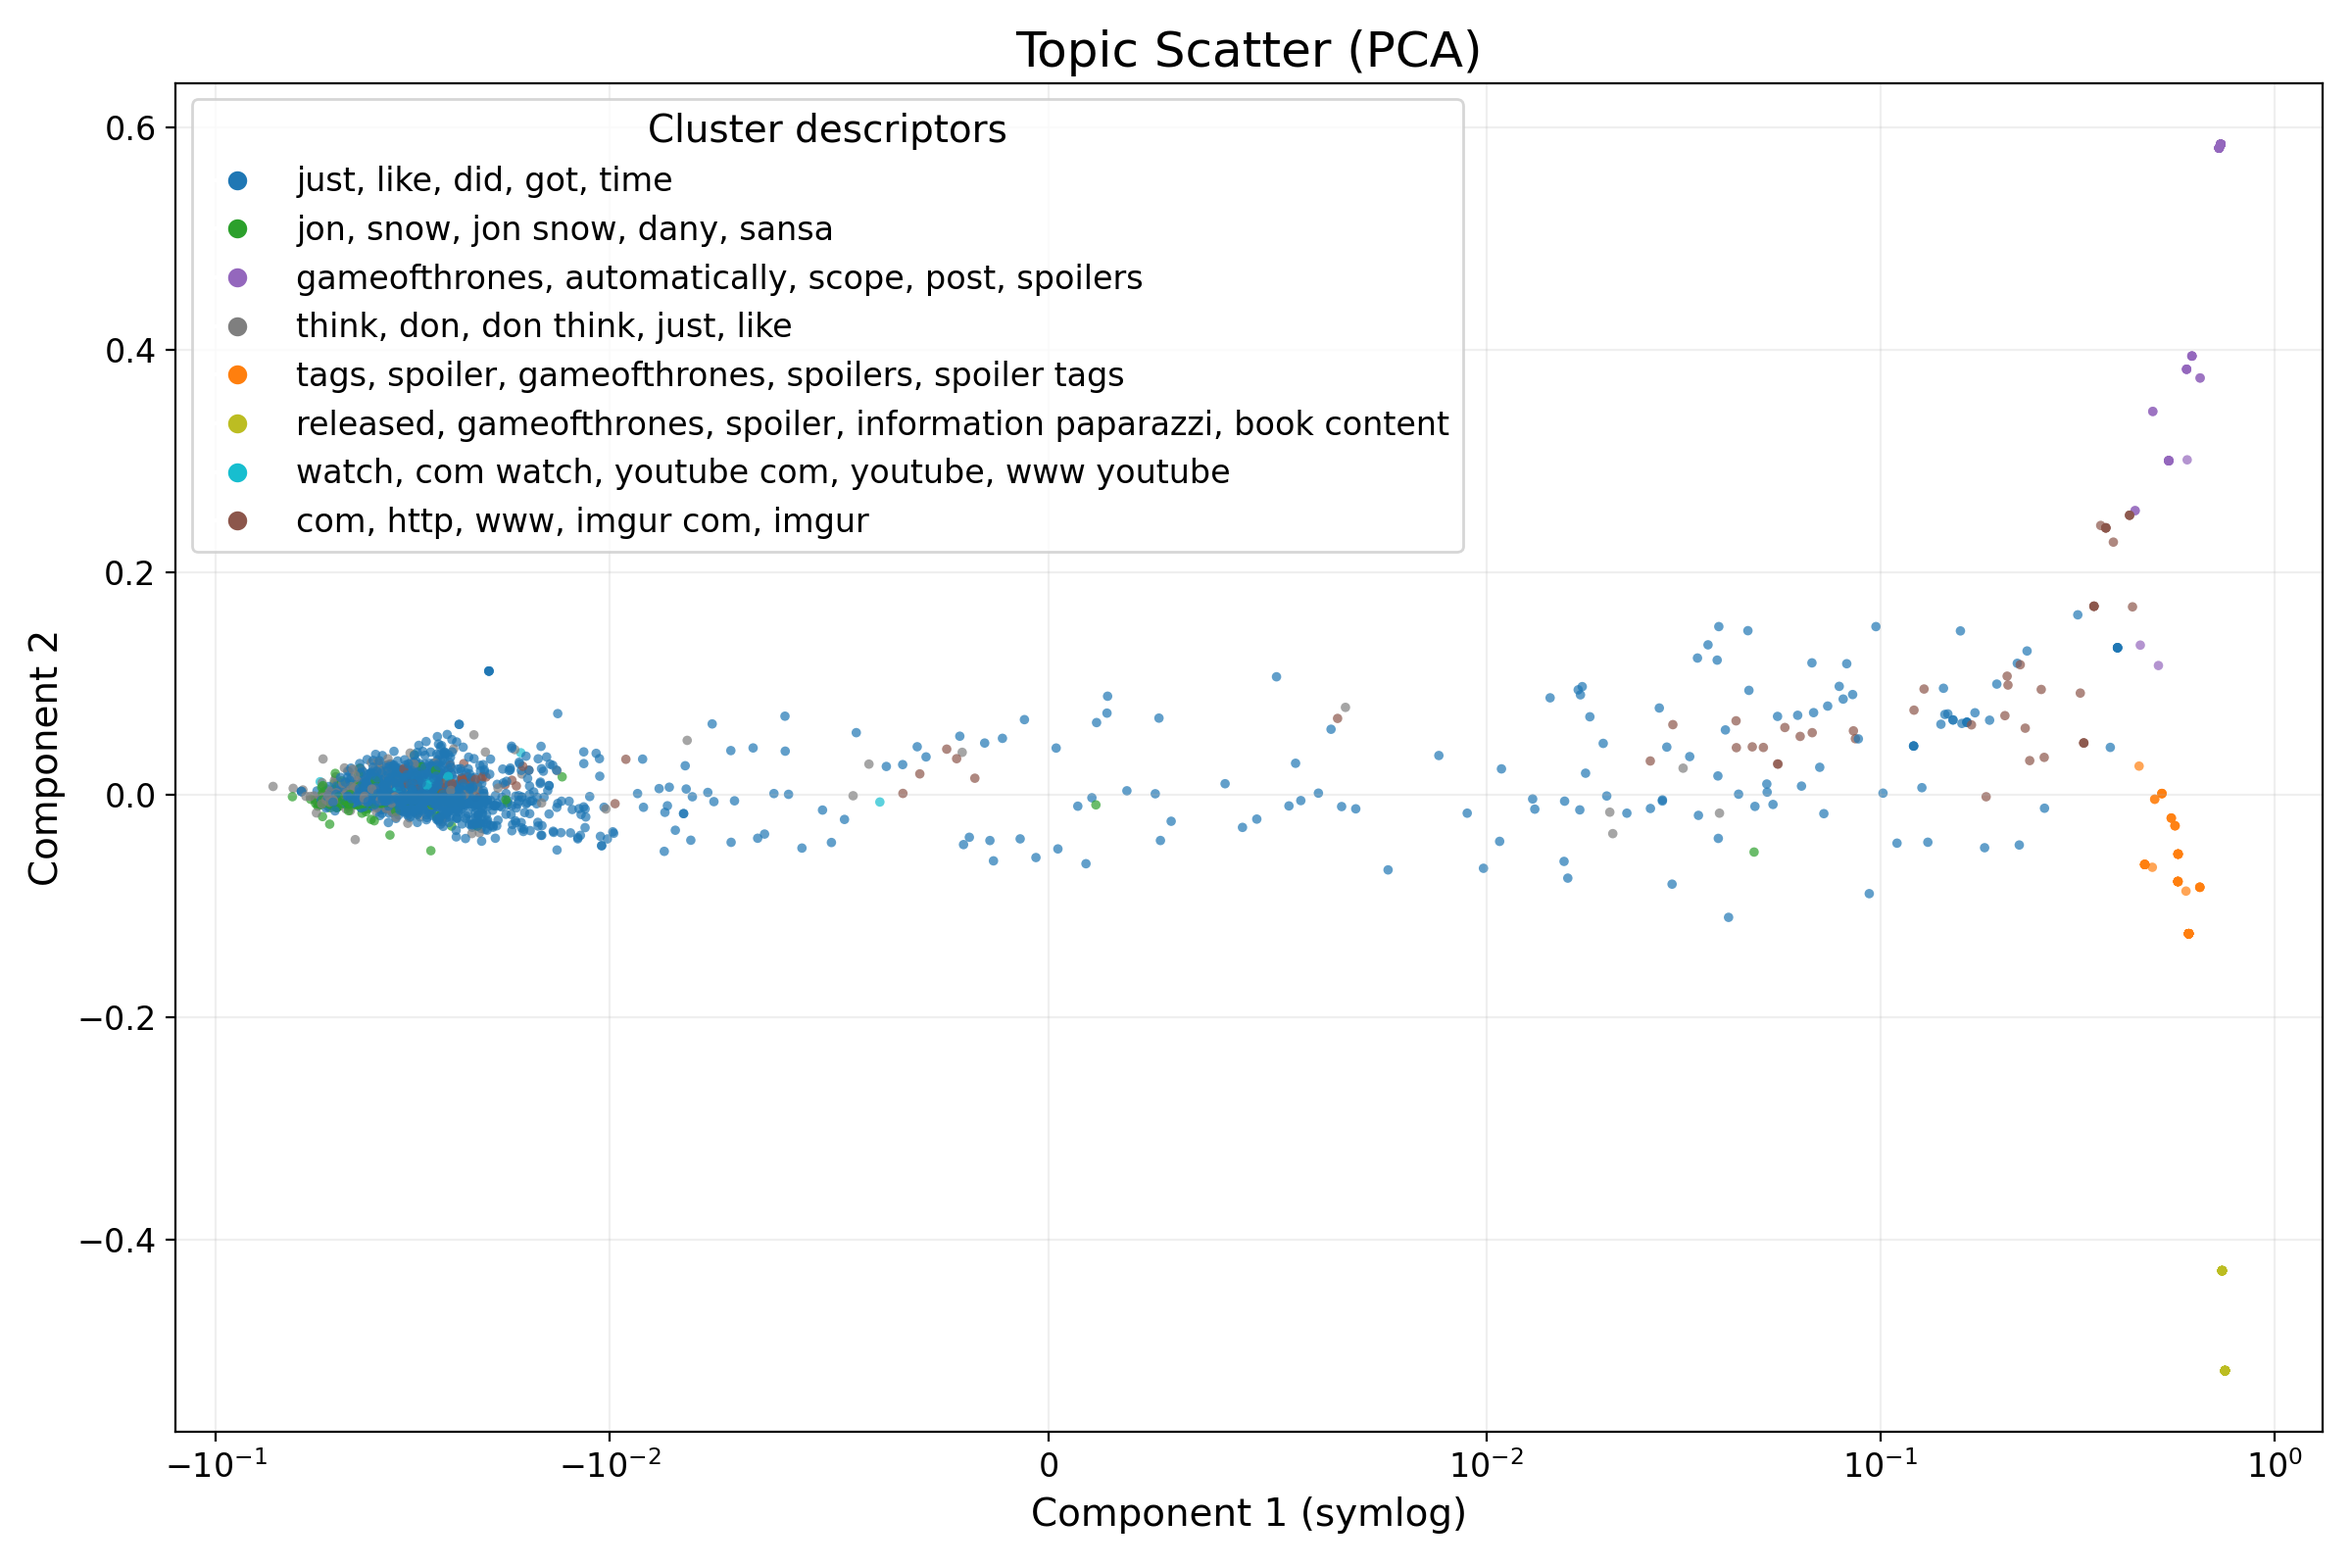
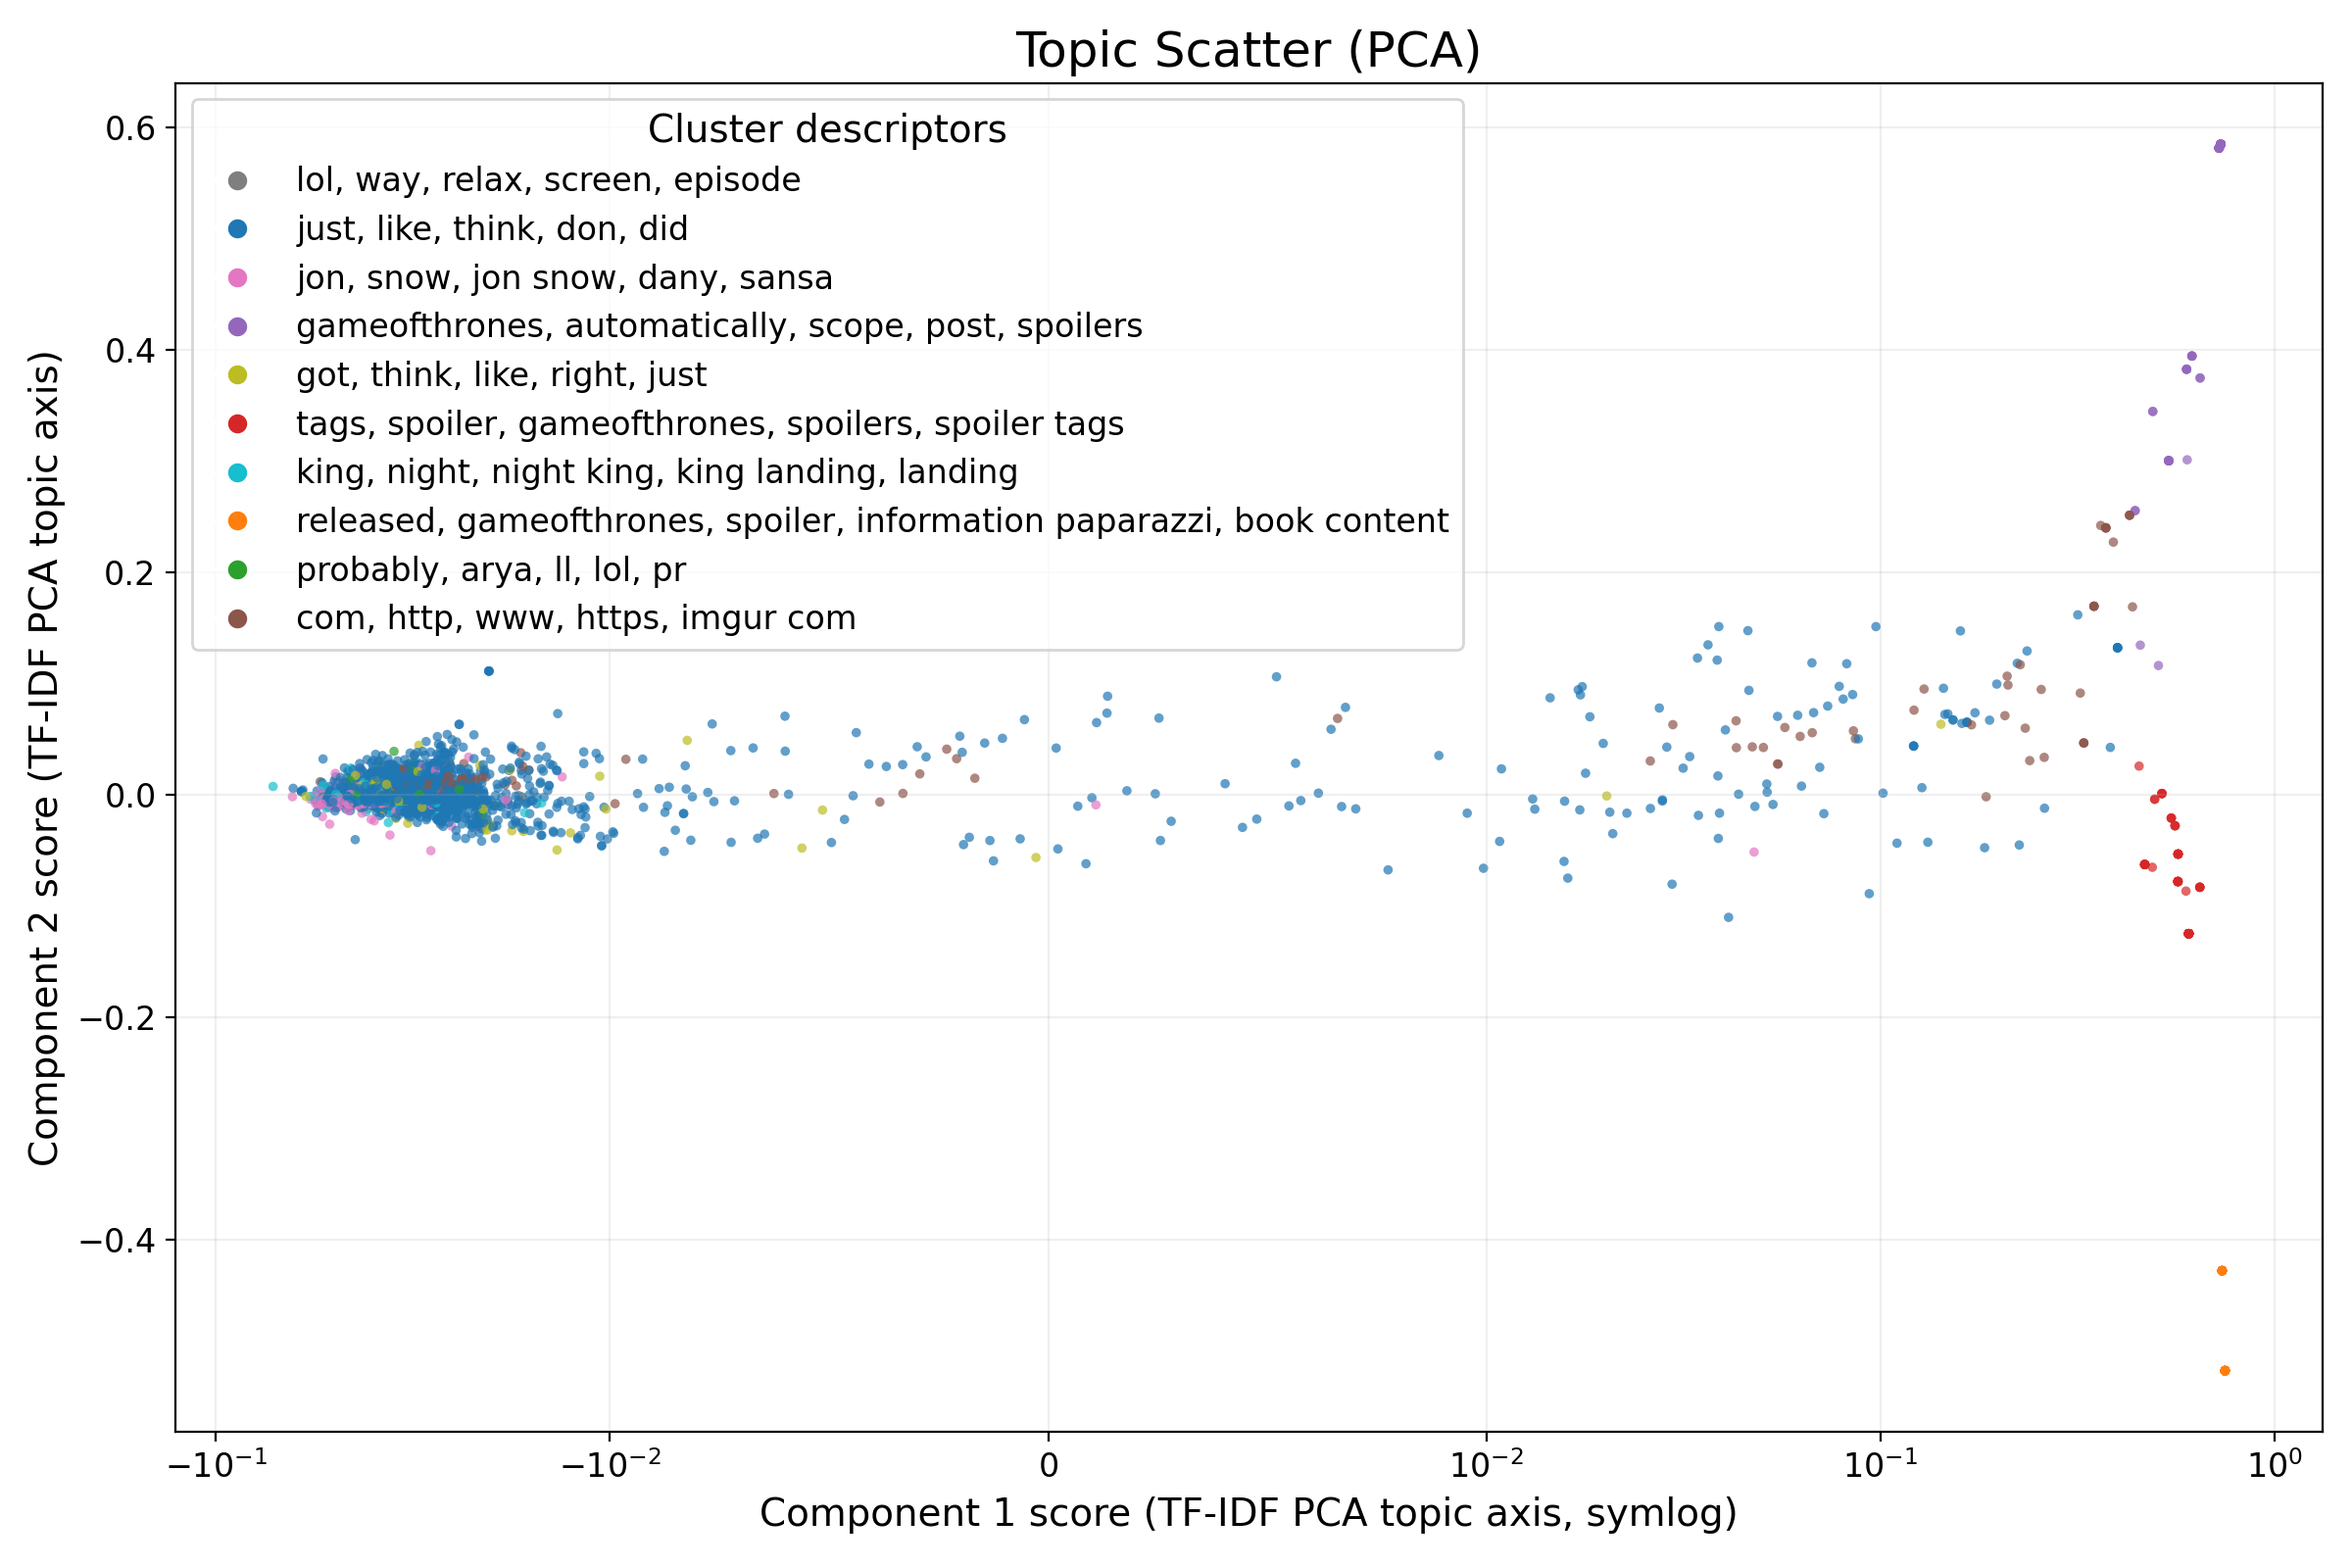
notes, topic scatter axis

diff --git a/compute_topic_scatter_data.py b/compute_topic_scatter_data.py
@@ -8,6 +8,7 @@ from __future__ import annotations
 import argparse
 import json
 from pathlib import Path
+from typing import Dict, List
 
 import pandas as pd
 from sklearn.cluster import KMeans
@@ -105,8 +106,9 @@ def collect_posts(file_path: Path) -> pd.DataFrame:
 
 def describe_components(
     pca_model: PCA, feature_names, top_terms: int
-) -> None:
+) -> List[Dict[str, List[str]]]:
     top_terms = max(1, top_terms)
+    descriptions: List[Dict[str, List[str]]] = []
     for idx, component in enumerate(pca_model.components_[:2], start=1):
         sorted_idx = component.argsort()
         top_pos = sorted_idx[-top_terms:][::-1]
@@ -116,6 +118,14 @@ def describe_components(
         print(f"PCA component {idx}:")
         print("  High positive terms:", ", ".join(terms_pos))
         print("  High negative terms:", ", ".join(terms_neg))
+        descriptions.append(
+            {
+                "component": idx,
+                "positive_terms": terms_pos,
+                "negative_terms": terms_neg,
+            }
+        )
+    return descriptions
 
 
 def describe_clusters(
@@ -159,7 +169,7 @@ def main() -> None:
 
     pca = PCA(n_components=min(50, tfidf_matrix.shape[1]))
     dense_vectors = pca.fit_transform(tfidf_matrix.toarray())
-    describe_components(pca, feature_names, args.top_terms)
+    component_descriptions = describe_components(pca, feature_names, args.top_terms)
 
     clusterer = KMeans(n_clusters=args.clusters, random_state=42, n_init="auto")
     cluster_labels = clusterer.fit_predict(dense_vectors)
@@ -171,6 +181,14 @@ def main() -> None:
     df = df.reset_index(drop=True)
     df["pca_component_1"] = dense_vectors[:, 0]
     df["pca_component_2"] = dense_vectors[:, 1] if dense_vectors.shape[1] > 1 else 0
+    component_labels = {}
+    for comp in component_descriptions:
+        preview = 3
+        pos = ", ".join(comp["positive_terms"][:preview])
+        neg = ", ".join(comp["negative_terms"][:preview])
+        component_labels[comp["component"]] = f"Component {comp['component']}: {pos} <-> {neg}"
+    df["pca_component_1_desc"] = component_labels.get(1, "Component 1")
+    df["pca_component_2_desc"] = component_labels.get(2, "Component 2")
     df["cluster"] = cluster_labels
     df["cluster_label"] = df["cluster"].map(
         lambda c: cluster_terms.get(c, f"Cluster {c}")

diff --git a/plot_topic_scatter.py b/plot_topic_scatter.py
@@ -71,6 +71,7 @@ def ensure_projection(df: pd.DataFrame, sample_size: int, use_umap: bool):
 
 def plot_scatter(df: pd.DataFrame, coords: np.ndarray, output_path: Path, title: str) -> None:
     fig, ax = plt.subplots(figsize=(12, 8))
+
     scatter = ax.scatter(
         coords[:, 0],
         coords[:, 1],
@@ -82,8 +83,8 @@ def plot_scatter(df: pd.DataFrame, coords: np.ndarray, output_path: Path, title:
     )
     ax.set_title(title, fontsize=18)
     ax.set_xscale("symlog", linthresh=1e-2)
-    ax.set_xlabel("Component 1 (symlog)", fontsize=14)
-    ax.set_ylabel("Component 2", fontsize=14)
+    ax.set_xlabel("Component 1 score (TF-IDF PCA topic axis, symlog)", fontsize=14)
+    ax.set_ylabel("Component 2 score (TF-IDF PCA topic axis)", fontsize=14)
     ax.tick_params(axis="both", which="major", labelsize=12)
     ax.grid(alpha=0.2)
 
